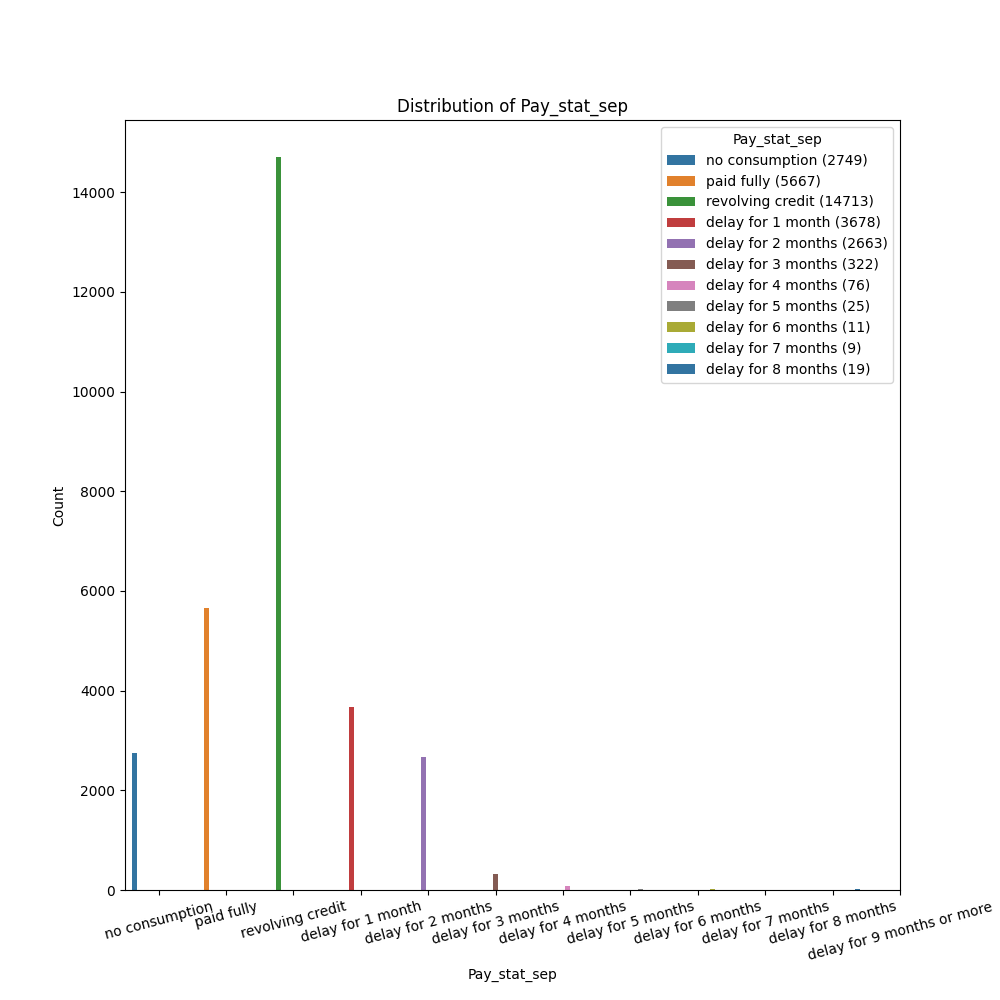
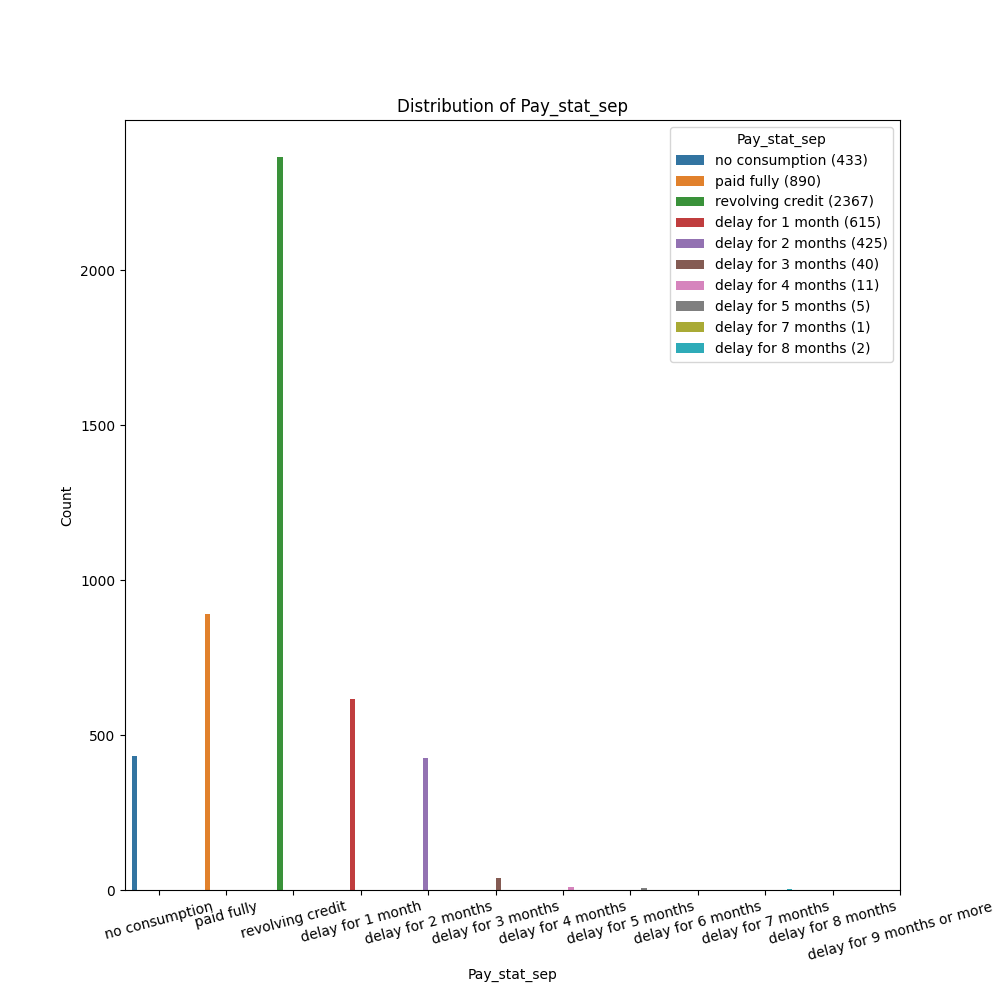
Found an error in the preprocessing pipeline.

diff --git a/preprocessing/missing_values_handling.py b/preprocessing/missing_values_handling.py
@@ -9,6 +9,9 @@ from pathlib import Path
 from sklearn.impute import KNNImputer
 from sklearn.ensemble import RandomForestClassifier
 
+# Global variables:
+from config import data_path
+
 
 def handle_missing_values(dataframe: pd.DataFrame, method: str = "drop",
                           suppress_print: bool = True) -> pd.DataFrame:
@@ -26,12 +29,10 @@ def handle_missing_values(dataframe: pd.DataFrame, method: str = "drop",
     :return: pd.DataFrame: the dataframe without missing values.
     """
 
-    # make a copy of the dataframe:
-    dataframe: pd.DataFrame = dataframe.copy()
-
     # check if the dataframe contains missing values, otherwise return the dataframe:
     if dataframe.isnull().sum().sum() == 0 and len(dataframe[dataframe['education'] == 0]) == 0 and \
             len(dataframe[dataframe['marriage'] == 0]) == 0:
+        print("No missing values in the dataset.")
         return dataframe
 
     # store the indexes of the missing values:
@@ -44,12 +45,18 @@ def handle_missing_values(dataframe: pd.DataFrame, method: str = "drop",
 
     if method == "drop":
         # Drop the missing values, i.e. rows with education or marriage equal to 0:
-        dataframe.dropna(inplace=True)
+        df = dataframe.copy()
+        df = df.dropna()
+        # Save the dataset for EDA:
+        path = Path(data_path, "EDA")
+        path.mkdir(parents=True, exist_ok=True)
+        df.to_csv(Path(path, "dataset_for_eda.csv"), index=False)
 
     elif method == "most_frequent_imputation":
         # Impute the missing values with the mode:
-        dataframe["education"].replace(np.nan, dataframe["education"].mode()[0], inplace=True)
-        dataframe["marriage"].replace(np.nan, dataframe["marriage"].mode()[0], inplace=True)
+        df = dataframe.copy()
+        df["education"] = dataframe["education"].replace(np.nan, dataframe["education"].mode()[0])
+        df["marriage"] = dataframe["marriage"].replace(np.nan, dataframe["marriage"].mode()[0])
 
     elif method == "supervised_imputation":
         # Impute the missing values with a supervised method:
@@ -71,7 +78,7 @@ def handle_missing_values(dataframe: pd.DataFrame, method: str = "drop",
         # predict the missing values:
         test_set[["education", "marriage"]] = rf.predict(test_set.drop(["education", "marriage"], axis=1))
         # concatenate the training set and the test set:
-        dataframe = pd.concat([train_set, test_set], axis=0)
+        df = pd.concat([train_set, test_set], axis=0)
 
     elif method == "unsupervised_imputation":
         # Impute the missing values with the most similar instance using KNN:
@@ -82,13 +89,13 @@ def handle_missing_values(dataframe: pd.DataFrame, method: str = "drop",
         """
         knn_imputer = KNNImputer(n_neighbors=1, metric="nan_euclidean")
         # assign NaN to the missing values in education and marriage:
-        dataframe["education"].replace(0, np.nan, inplace=True)
-        dataframe["marriage"].replace(0, np.nan, inplace=True)
-        # impute the missing values:
-        dataframe = pd.DataFrame(knn_imputer.fit_transform(dataframe), columns=dataframe.columns)
+        df_knn = dataframe.copy()
+        df = pd.DataFrame(knn_imputer.fit_transform(df_knn), columns=df_knn.columns).copy()
+        # set the index to the original index:
+        df.index = df_knn.index
 
     else:
-        raise ValueError(f"Method {method} not supported, possible choices are 'drop' or 'impute'.")
+        raise ValueError(f"Method {method} not supported.")
 
     if method != "drop":
         # save the change in the original dataframe to a txt file:
@@ -98,6 +105,6 @@ def handle_missing_values(dataframe: pd.DataFrame, method: str = "drop",
             file.write(f"Missing values for education: {missing_indexes_e}\n")
             file.write(f"Missing values for marriage: {missing_indexes_m}\n")
             file.write(f"Missing values imputed with: {method}\n")
-            file.write(f"imputed values for education: {str(dataframe['education'][missing_indexes_e].values)}\n")
-            file.write(f"imputed values for marriage: {str(dataframe['marriage'][missing_indexes_m].values)}")
-    return dataframe
+            file.write(f"imputed values for education: {str(df['education'][missing_indexes_e].values)}\n")
+            file.write(f"imputed values for marriage: {str(df['marriage'][missing_indexes_m].values)}")
+    return df

diff --git a/preprocessing/preprocessor.py b/preprocessing/preprocessor.py
@@ -163,14 +163,15 @@ def preprocessor_main(suppress_print=False, missing_values_dominant_strategies: 
         # preprocess the training, validation and testing datasets:
         for method in methods:
             # preprocess the training dataset:
-            training_dataframe = handle_missing_values(training_dataframe, method)
+            training_dataframe_method = handle_missing_values(training_dataframe, method)
             # preprocess the validation dataset:
-            validation_dataframe = handle_missing_values(validation_dataframe, method)
+            validation_dataframe_method = handle_missing_values(validation_dataframe, method)
             # preprocess the testing dataset:
-            testing_dataframe = handle_missing_values(testing_dataframe, method)
+            testing_dataframe_method = handle_missing_values(testing_dataframe, method)
 
             # merge the training, validation and testing datasets:
-            dataframe = pd.DataFrame(pd.concat([training_dataframe, validation_dataframe, testing_dataframe],
+            dataframe = pd.DataFrame(pd.concat([training_dataframe_method, validation_dataframe_method,
+                                                testing_dataframe_method],
                                                axis=0))
             # save the preprocessed dataset in the missing_values_path:
             dataframe.to_csv(Path(missing_values_path, f"project_2_dataset_{method}.csv"), index=False)
@@ -182,17 +183,18 @@ def preprocessor_main(suppress_print=False, missing_values_dominant_strategies: 
     else:
         for method in missing_values_dominant_strategies:
             # preprocess the training dataset:
-            training_dataframe = handle_missing_values(training_dataframe, method)
+            training_dataframe_method = handle_missing_values(training_dataframe, method)
             # preprocess the validation dataset:
-            validation_dataframe = handle_missing_values(validation_dataframe, method)
+            validation_dataframe_method = handle_missing_values(validation_dataframe, method)
             # preprocess the testing dataset:
-            testing_dataframe = handle_missing_values(testing_dataframe, method)
+            testing_dataframe_method = handle_missing_values(testing_dataframe, method)
 
             # merge the training, validation and testing datasets:
-            dataframe = pd.DataFrame(pd.concat([training_dataframe, validation_dataframe, testing_dataframe],
-                                               axis=0))
+            dataframe_method = pd.DataFrame(pd.concat([training_dataframe_method, validation_dataframe_method,
+                                                       testing_dataframe_method],
+                                                      axis=0))
             # save the preprocessed dataset in the missing_values_path:
-            dataframe.to_csv(Path(missing_values_path, f"project_2_dataset_{method}.csv"), index=False)
+            dataframe_method.to_csv(Path(missing_values_path, f"project_2_dataset_{method}.csv"), index=False)
 
             if not suppress_print:
                 print("Preprocessing completed.")

diff --git a/main/main.py b/main/main.py
@@ -38,10 +38,12 @@ def main() -> None:
     """
     # Preprocessing:
     # ----------------------------------------------
-    preprocessor_main(suppress_print=True, missing_values_dominant_strategies=["drop"])
+    preprocessor_main(suppress_print=True,
+                      missing_values_dominant_strategies=["drop", "most_frequent_imputation", "supervised_imputation",
+                                                          "unsupervised_imputation"])
     feature_engineering_main(overwrite_original=True)
-    scaling_main(dominant_scaling_strategies=['robust_scaler'])
-    eda_main()
+    scaling_main(dominant_scaling_strategies=['standard_scaler', 'robust_scaler', 'minmax_scaler'])
+    # eda_main()
     # # Baseline models:
     # # ----------------------------------------------
     trees_main()
@@ -80,12 +82,12 @@ def main() -> None:
     # ----------------------------------------------
     # After tuning the balancing strategies, we selected smoteen, which was the best or
     # second best for all models.
-    balance_classes_main(dominant_strategies=['smote_enn'])
-    balanced_trees_main(dominant_model='gradient_boosting')
-    balanced_neural_network_main(dominant_model='convolutional')
-    balanced_other_models_main(dominant_model='svc')
-    evaluator_main(trees_balanced_results_path, neural_networks_balanced_results_path,
-                   other_models_balanced_results_path, suppress_print=True, balanced=True)
+    # balance_classes_main(dominant_strategies=['smote_enn'])
+    # balanced_trees_main(dominant_model='gradient_boosting')
+    # balanced_neural_network_main(dominant_model='convolutional')
+    # balanced_other_models_main(dominant_model='svc')
+    # evaluator_main(trees_balanced_results_path, neural_networks_balanced_results_path,
+    #               other_models_balanced_results_path, suppress_print=True, balanced=True)
     """
     Sample output:
     The best gradient boosting robust scaler drop, with an f1 score of 0.532
@@ -105,8 +107,8 @@ def main() -> None:
     # Below the tuning of the simple models:
     # simple_models_main()
     # Below we generate the 3 best models we found during the tuning phase for the explanation part:
-    create_final_models_main()
-    final_comparisons_main()
+    # create_final_models_main()
+    # final_comparisons_main()
     # Explaining:
     # ----------------------------------------------
     # Global:

diff --git a/preprocessing/eda/EDA.py b/preprocessing/eda/EDA.py
@@ -195,6 +195,27 @@ def plot_categorical_correlation_with_target(df: pd.DataFrame, target: str) -> N
     plt.close()
 
 
+def pie_chart(df: pd.DataFrame, feature: str, title: str) -> None:
+    """
+    Plot a pie chart of the distribution of the categorical feature.
+    @param df: pd.DataFrame: the dataframe with the feature.
+    @param feature: str: the feature to plot.
+    @param title: str: the title of the plot.
+    :return: None
+    """
+    plt.figure(figsize=(10, 10))
+    if feature == 'default':
+        # map 0 to 'No' and 1 to 'Yes':
+        df[feature] = df[feature].map({0: 'No', 1: 'Yes'})
+    plt.pie(df[feature].value_counts(), labels=df[feature].value_counts().index, autopct='%1.1f%%')
+    plt.legend(title=feature.capitalize())
+    plt.title(title)
+    # Save the plot:
+    plot_path.mkdir(parents=True, exist_ok=True)
+    plt.savefig(Path(plot_path, f'{feature}_pie_chart.png'))
+    plt.close()
+
+
 @measure_time
 def eda_main() -> None:
     """
@@ -221,6 +242,9 @@ def eda_main() -> None:
     plot_categorical_feature_distribution(df)
 
     # Plot the distribution of the numerical features:
+    plot_numerical_feature_distribution(df, log_transform=False)
+
+    # Plot the distribution of the numerical features after log transformation:
     plot_numerical_feature_distribution(df, log_transform=True)
 
     # Plot the correlation of the numerical features with the target:
@@ -228,6 +252,9 @@ def eda_main() -> None:
 
     # Plot the correlation of the categorical features with the target:
     plot_categorical_correlation_with_target(df, target='default')
+
+    # Plot the distribution of the target:
+    pie_chart(df, feature='default', title='Distribution of defaulters and non-defaulters in the original dataset')
 
 
 # Driver:

diff --git a/preprocessing/features_skeweness_handling.py b/preprocessing/features_skeweness_handling.py
@@ -8,7 +8,7 @@ from auxiliary.method_timer import measure_time
 from sklearn.preprocessing import PowerTransformer
 
 # Global variables:
-from config import logs_path
+from config import logs_path, data_path
 from modelling.train_test_validation_split import split_data
 
 if not logs_path.exists():
@@ -266,12 +266,14 @@ def skewness_main(filename: str, suppress_print=False) -> pd.DataFrame:
 
     # apply the yeo-johnson transformation:
     features = power_transform(training, validation, testing, numerical_features, "yeo-johnson")
+    # substitute the numerical features with the transformed features:
+    df[numerical_features] = features[numerical_features]
 
     if not suppress_print:
         print(estimate_skewness(df, "all"))
 
-    # substitute the numerical features with the transformed features:
-    df[numerical_features] = features[numerical_features]
-
     return df
 
+
+if __name__ == '__main__':
+    skewness_main(Path(data_path, "EDA", "dataset_for_eda.csv"))

diff --git a/config.py b/config.py
@@ -12,7 +12,7 @@ data_path: Path = Path(project_root_path, "data")
 logs_path: Path = Path(project_root_path, "logs")
 # results path:
 results_path: Path = Path(project_root_path, "results")
-# Excel file path:
+# Original Excel file path:
 excel_file = Path(data_path, "Project 2 Dataset.xls")
 # missing values' path:
 missing_values_path = Path(data_path, "missing_values_handled")
@@ -23,7 +23,7 @@ balanced_datasets_path = Path(data_path, "balanced_datasets")
 # plots:
 plot_path: Path = Path(project_root_path, "preprocessing", "plots")
 # default csv:
-eda_csv_file_path = Path(missing_values_path, 'project_2_dataset_drop_augmented.csv')
+eda_csv_file_path = Path(data_path, "EDA", "dataset_for_eda.csv")
 # sub-folders for the baseline results:
 trees_results_path: Path = Path(results_path, "trees_baseline")
 neural_networks_results_path: Path = Path(results_path, "neural_network_baseline")

diff --git a/preprocessing/scaling.py b/preprocessing/scaling.py
@@ -77,7 +77,7 @@ def normalize_data(training: pd.DataFrame, validation: pd.DataFrame, testing: pd
 
 
 @measure_time
-def scaling_main(dominant_scaling_strategies: None) -> None:
+def scaling_main(dominant_scaling_strategies: [str] = None) -> None:
     """
     Main method to execute the scaling library
     @param dominant_scaling_strategies: the dominant scaling strategy to use, if it exists. If it does not exist,
